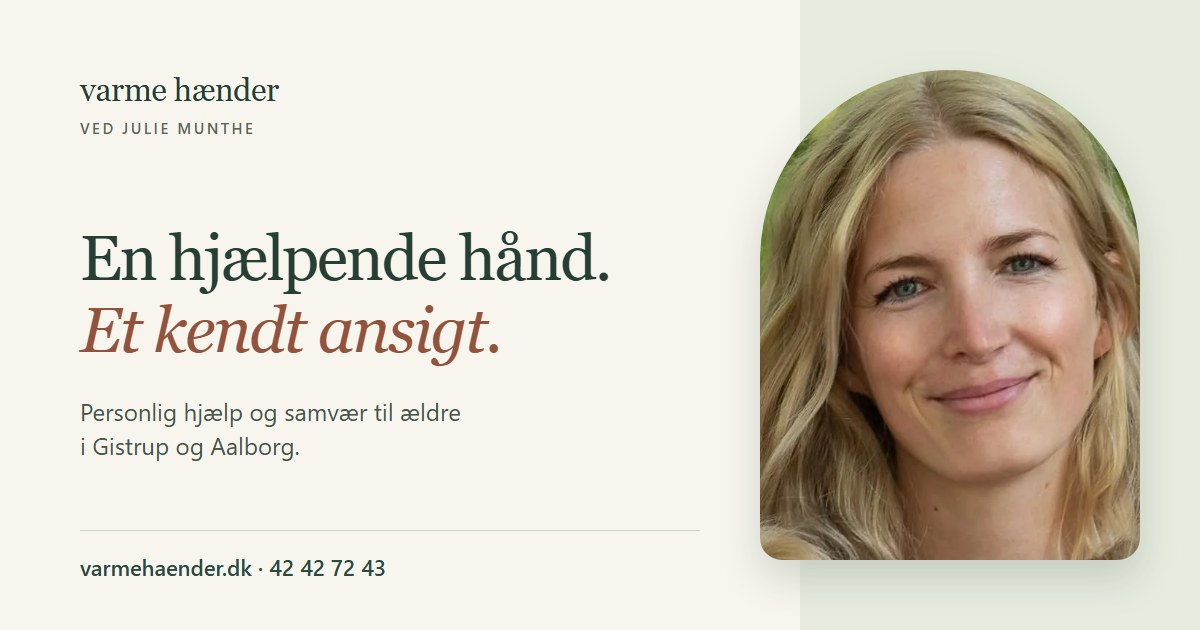
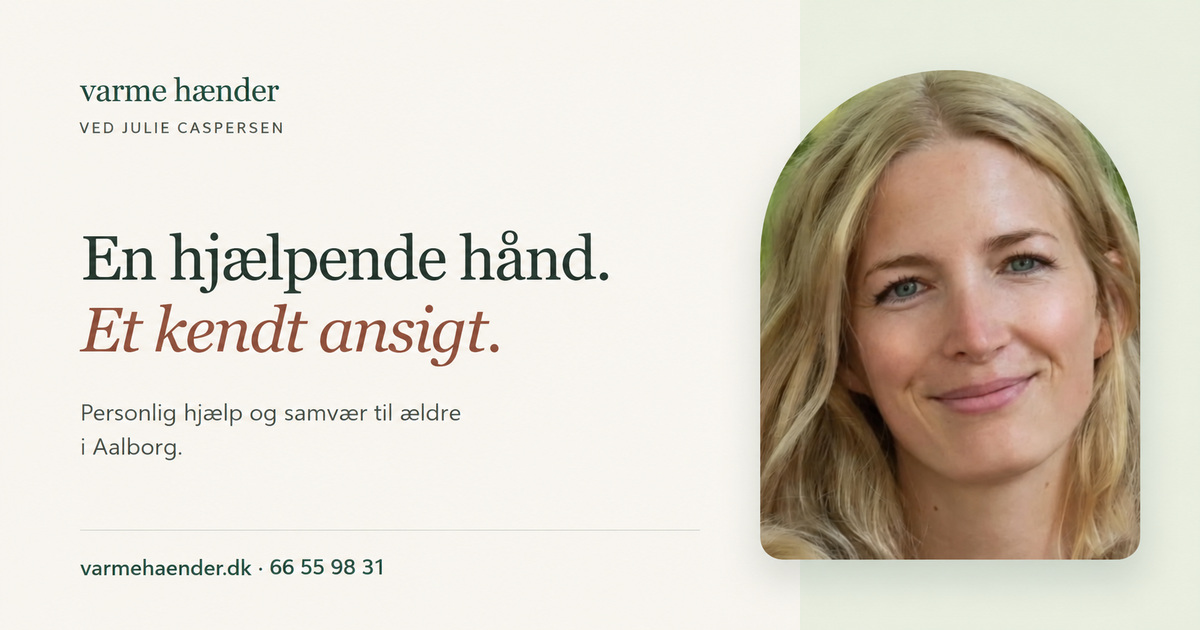
Update Julie Caspersen contact details and Aalborg location

diff --git a/index.html b/index.html
@@ -5,30 +5,30 @@
   <meta name="viewport" content="width=device-width, initial-scale=1">
   <meta name="theme-color" content="#f7f5ee">
   <meta name="color-scheme" content="light">
-  <title>Privat hjælp til ældre i Gistrup og Aalborg | Varme Hænder</title>
-  <meta name="description" content="Privat hjælp i hjemmet til ældre i Gistrup og Aalborg: praktisk hjælp, samvær, hjælp med teknik og ledsagelse. Altid Julie. 349 kr. pr. time inkl. moms og transport.">
+  <title>Privat hjælp til ældre i Aalborg | Varme Hænder</title>
+  <meta name="description" content="Privat hjælp i hjemmet til ældre i Aalborg: praktisk hjælp, samvær, hjælp med teknik og ledsagelse. Altid Julie. 349 kr. pr. time inkl. moms og transport.">
   <link rel="canonical" href="https://varmehaender.dk/">
   <meta property="og:type" content="website">
   <meta property="og:locale" content="da_DK">
   <meta property="og:site_name" content="Varme Hænder">
-  <meta property="og:title" content="Varme Hænder · Personlig hjælp til ældre i Gistrup og Aalborg">
+  <meta property="og:title" content="Varme Hænder · Personlig hjælp til ældre i Aalborg">
   <meta property="og:description" content="En hjælpende hånd. Et kendt ansigt. Julie hjælper med det praktiske, har tid til samvær og giver en hånd med teknikken. 349 kr. pr. time inkl. moms og transport.">
   <meta property="og:url" content="https://varmehaender.dk/">
-  <meta property="og:image" content="https://varmehaender.dk/assets/deling.jpg?v=20261106-domaene">
+  <meta property="og:image" content="https://varmehaender.dk/assets/deling.jpg?v=20261107-kontakt">
   <meta property="og:image:type" content="image/jpeg">
   <meta property="og:image:width" content="1200">
   <meta property="og:image:height" content="630">
-  <meta property="og:image:alt" content="Julie Munthe fra Varme Hænder. En hjælpende hånd. Et kendt ansigt. Personlig hjælp i Gistrup og Aalborg.">
+  <meta property="og:image:alt" content="Julie Caspersen fra Varme Hænder. En hjælpende hånd. Et kendt ansigt. Personlig hjælp i Aalborg.">
   <meta name="twitter:card" content="summary_large_image">
   <link rel="icon" href="assets/favicon.svg?v=20261106-domaene" type="image/svg+xml">
   <link rel="icon" href="assets/favicon-192.png?v=20261106-domaene" type="image/png" sizes="192x192">
   <link rel="apple-touch-icon" href="assets/apple-touch-icon.png?v=20261106-domaene">
-  <link rel="stylesheet" href="assets/style.css?v=20261106-domaene">
-  <link rel="preload" as="image" href="assets/julie-munthe.webp" fetchpriority="high">
+  <link rel="stylesheet" href="assets/style.css?v=20261107-kontakt">
+  <link rel="preload" as="image" href="assets/julie-caspersen.webp" fetchpriority="high">
   <script type="application/ld+json" id="business-schema">
-  {"@context": "https://schema.org", "@type": "ProfessionalService", "@id": "https://varmehaender.dk/#virksomhed", "name": "Varme Hænder", "url": "https://varmehaender.dk/", "description": "Privat, personlig hjælp i hjemmet til ældre med praktiske opgaver, samvær, teknisk hjælp og ledsagelse med udgangspunkt i Gistrup nær Aalborg.", "image": "https://varmehaender.dk/assets/julie-munthe.webp", "logo": "https://varmehaender.dk/assets/favicon-192.png", "email": "julie@varmehaender.dk", "telephone": "+4542427243", "vatID": "DK42401870", "priceRange": "349 kr. pr. time inkl. moms og transport", "currenciesAccepted": "DKK", "knowsLanguage": "da", "founder": {"@type": "Person", "name": "Julie Munthe"}, "areaServed": [{"@type": "City", "name": "Gistrup"}, {"@type": "City", "name": "Aalborg"}], "address": {"@type": "PostalAddress", "addressLocality": "Gistrup", "postalCode": "9260", "addressCountry": "DK"}, "makesOffer": {"@type": "Offer", "name": "Personlig hjælp i hjemmet", "description": "Praktisk hjælp, samvær, teknisk hjælp og ledsagelse. Minimum 2 timer pr. besøg.", "priceSpecification": {"@type": "UnitPriceSpecification", "price": 349, "priceCurrency": "DKK", "valueAddedTaxIncluded": true, "unitCode": "HUR", "unitText": "time"}}, "hasOfferCatalog": {"@type": "OfferCatalog", "name": "Hjælp i hverdagen", "itemListElement": [{"@type": "Offer", "itemOffered": {"@type": "Service", "name": "Praktisk hjælp", "description": "Rengøring, lettere oprydning, tøjvask, indkøb og hverdagens ærinder."}}, {"@type": "Offer", "itemOffered": {"@type": "Service", "name": "Samvær", "description": "Kaffe og en god snak, gåture, spil, højtlæsning og hyggestunder."}}, {"@type": "Offer", "itemOffered": {"@type": "Service", "name": "Teknisk hjælp", "description": "Hjælp med mobiltelefon, tablet, digitale beskeder og vejledning i MitID."}}, {"@type": "Offer", "itemOffered": {"@type": "Service", "name": "Ledsagelse", "description": "Følgeskab til aftaler, ture til butikkerne og små oplevelser."}}]}}
+  {"@context": "https://schema.org", "@type": "ProfessionalService", "@id": "https://varmehaender.dk/#virksomhed", "name": "Varme Hænder", "url": "https://varmehaender.dk/", "description": "Privat, personlig hjælp i hjemmet til ældre med praktiske opgaver, samvær, teknisk hjælp og ledsagelse med udgangspunkt i Aalborg.", "image": "https://varmehaender.dk/assets/julie-caspersen.webp", "logo": "https://varmehaender.dk/assets/favicon-192.png", "email": "julie@varmehaender.dk", "telephone": "+4566559831", "vatID": "DK42401870", "priceRange": "349 kr. pr. time inkl. moms og transport", "currenciesAccepted": "DKK", "knowsLanguage": "da", "founder": {"@type": "Person", "name": "Julie Caspersen"}, "areaServed": [{"@type": "City", "name": "Aalborg"}], "address": {"@type": "PostalAddress", "addressLocality": "Aalborg", "addressCountry": "DK"}, "makesOffer": {"@type": "Offer", "name": "Personlig hjælp i hjemmet", "description": "Praktisk hjælp, samvær, teknisk hjælp og ledsagelse. Minimum 2 timer pr. besøg.", "priceSpecification": {"@type": "UnitPriceSpecification", "price": 349, "priceCurrency": "DKK", "valueAddedTaxIncluded": true, "unitCode": "HUR", "unitText": "time"}}, "hasOfferCatalog": {"@type": "OfferCatalog", "name": "Hjælp i hverdagen", "itemListElement": [{"@type": "Offer", "itemOffered": {"@type": "Service", "name": "Praktisk hjælp", "description": "Rengøring, lettere oprydning, tøjvask, indkøb og hverdagens ærinder."}}, {"@type": "Offer", "itemOffered": {"@type": "Service", "name": "Samvær", "description": "Kaffe og en god snak, gåture, spil, højtlæsning og hyggestunder."}}, {"@type": "Offer", "itemOffered": {"@type": "Service", "name": "Teknisk hjælp", "description": "Hjælp med mobiltelefon, tablet, digitale beskeder og vejledning i MitID."}}, {"@type": "Offer", "itemOffered": {"@type": "Service", "name": "Ledsagelse", "description": "Følgeskab til aftaler, ture til butikkerne og små oplevelser."}}]}}
   </script>
-  <script src="assets/site-config.js?v=20261106-domaene" defer></script>
+  <script src="assets/site-config.js?v=20261107-kontakt" defer></script>
   <script src="assets/site.js?v=20261106-domaene" defer></script>
 </head>
 <body class="design-original">
@@ -52,19 +52,19 @@
     </defs>
   </svg>
 
-  <div class="top-note"><span>Personlig hjælp med udgangspunkt i Gistrup nær Aalborg</span><span class="top-note-end">Én person. Tid til dig.</span></div>
+  <div class="top-note"><span>Personlig hjælp med udgangspunkt i Aalborg</span><span class="top-note-end">Én person. Tid til dig.</span></div>
   <header class="site-header" id="top">
     <div class="container header-inner">
       <a class="brand" href="#top" aria-label="Varme Hænder – til forsiden">
         <svg class="brand-symbol" aria-hidden="true"><use href="#brand-mark"/></svg>
-        <span><span class="brand-name">varme hænder</span><span class="brand-tagline">ved Julie Munthe</span></span>
+        <span><span class="brand-name">varme hænder</span><span class="brand-tagline">ved Julie Caspersen</span></span>
       </a>
       <button class="menu-toggle" type="button" aria-expanded="false" aria-controls="hovedmenu" hidden><span>Menu</span><span class="menu-lines" aria-hidden="true"></span></button>
       <nav class="site-nav" id="hovedmenu" aria-label="Hovedmenu">
         <a href="#hjaelp">Det hjælper jeg med</a>
         <a href="#om-julie">Mød Julie</a>
         <a href="#pris">Pris & aftale</a>
-        <a class="button button-small" data-phone-link href="tel:+4542427243" aria-label="Ring til Julie på 42 42 72 43"><svg class="icon" aria-hidden="true"><use href="#icon-phone"/></svg><span data-phone-display>42 42 72 43</span></a>
+        <a class="button button-small" data-phone-link href="tel:+4566559831" aria-label="Ring til Julie på 66 55 98 31"><svg class="icon" aria-hidden="true"><use href="#icon-phone"/></svg><span data-phone-display>66 55 98 31</span></a>
       </nav>
     </div>
   </header>
@@ -78,17 +78,16 @@
           <p class="hero-intro">Jeg hedder Julie. Jeg hjælper dig med hverdagens gøremål og har tid til en snak, en gåtur og det, der betyder noget for dig.</p>
           <p class="hero-promise">Hos Varme Hænder er det altid mig, der kommer.</p>
           <div class="hero-actions">
-            <a class="button" data-primary-contact href="tel:+4542427243"><svg class="icon" aria-hidden="true"><use data-primary-icon href="#icon-phone"/></svg><span data-primary-label>Ring 42 42 72 43</span><svg class="icon button-arrow" aria-hidden="true"><use href="#icon-arrow"/></svg></a>
+            <a class="button" data-primary-contact href="tel:+4566559831"><svg class="icon" aria-hidden="true"><use data-primary-icon href="#icon-phone"/></svg><span data-primary-label>Ring 66 55 98 31</span><svg class="icon button-arrow" aria-hidden="true"><use href="#icon-arrow"/></svg></a>
             <a class="text-link" href="#hjaelp">Se, hvad jeg kan hjælpe med <span aria-hidden="true">↓</span></a>
           </div>
           <p class="hero-footnote">Du er også velkommen som pårørende.</p>
         </div>
         <div class="hero-portrait">
           <figure class="portrait-frame">
-            <div class="portrait-crop"><img src="assets/julie-munthe.webp" alt="Julie Munthe, som står bag Varme Hænder" width="719" height="719" fetchpriority="high"></div>
-            <figcaption class="portrait-caption"><span class="portrait-name">Julie Munthe</span><span>Det er mig, du møder.</span><svg class="caption-heart" aria-hidden="true"><use href="#icon-heart"/></svg></figcaption>
+            <div class="portrait-crop"><img src="assets/julie-caspersen.webp" alt="Julie Caspersen, som står bag Varme Hænder" width="719" height="719" fetchpriority="high"></div>
+            <figcaption class="portrait-caption"><span class="portrait-name">Julie Caspersen</span><span>Det er mig, du møder.</span><svg class="caption-heart" aria-hidden="true"><use href="#icon-heart"/></svg></figcaption>
           </figure>
-          <div class="portrait-note"><svg class="icon" aria-hidden="true"><use href="#icon-pin"/></svg><span>Hjemme i Gistrup.<br>Tæt på din hverdag.</span></div>
           <svg class="portrait-flourish" viewBox="0 0 100 130" fill="none" aria-hidden="true"><path d="M52 126C34 94 42 40 77 8M48 90C23 92 13 76 10 59c25-2 40 9 38 31ZM48 67c-5-22 7-36 25-43 9 22 0 38-25 43ZM44 108c16-21 35-20 49-12-10 20-27 26-49 12Z"/></svg>
         </div>
       </div>
@@ -98,7 +97,7 @@
       <div class="container trust-grid">
         <div><svg class="icon" aria-hidden="true"><use href="#icon-check"/></svg><span><strong>Altid den samme</strong>Du kender den, der kommer.</span></div>
         <div><svg class="icon" aria-hidden="true"><use href="#icon-check"/></svg><span><strong>Plads til dig</strong>Dine ønsker er udgangspunktet.</span></div>
-        <div><svg class="icon" aria-hidden="true"><use href="#icon-check"/></svg><span><strong>Hjælp tæt på</strong>Gistrup, Aalborg og omegn efter aftale.</span></div>
+        <div><svg class="icon" aria-hidden="true"><use href="#icon-check"/></svg><span><strong>Hjælp tæt på</strong>Aalborg og omegn efter aftale.</span></div>
       </div>
     </div>
 
@@ -144,11 +143,11 @@
           <p class="eyebrow">Mennesket bag Varme Hænder</p>
           <div class="about-statement"><span>Det er altid</span><strong>Julie.</strong><svg viewBox="0 0 310 26" fill="none" aria-hidden="true"><path d="M5 18C76 2 207 3 302 14M54 23c65-9 125-10 197-7"/></svg></div>
           <p>Én at kende.<br>Én at lave aftaler med.<br>Én, der kommer igen.</p>
-          <div class="about-location"><svg class="icon" aria-hidden="true"><use href="#icon-pin"/></svg>Julie Munthe · Gistrup</div>
+          <div class="about-location"><svg class="icon" aria-hidden="true"><use href="#icon-pin"/></svg>Julie Caspersen · Aalborg</div>
         </div>
         <div class="about-copy">
           <h2 id="about-heading">God hjælp begynder<br>med at kende hinanden.</h2>
-          <p>Jeg hedder Julie Munthe, bor i Gistrup og står bag Varme Hænder. Det er min virksomhed, og jeg er den eneste medarbejder. Derfor ved du altid, hvem du har kontakt med, og hvem du lukker ind.</p>
+          <p>Jeg hedder Julie Caspersen, bor i Aalborg og står bag Varme Hænder. Det er min virksomhed, og jeg er den eneste medarbejder. Derfor ved du altid, hvem du har kontakt med, og hvem du lukker ind.</p>
           <p>Jeg har en pædagogisk og administrativ baggrund. Den tager jeg med ind i arbejdet med både mennesker og hverdagens praktiske opgaver.</p>
           <p>For mig begynder hjælpen med at lytte. Hvad vil du gerne have en hånd med? Hvad kan du lide at lave? Og hvad gør en god dag for dig?</p>
           <a class="text-link" href="#saadan">Sådan kommer vi i gang <svg class="icon" aria-hidden="true"><use href="#icon-arrow"/></svg></a>
@@ -196,7 +195,7 @@
           <h3 id="price-card-heading">Det er med i aftalen</h3>
           <ul class="check-list"><li><svg class="icon" aria-hidden="true"><use href="#icon-check"/></svg><span>Minimum 2 timer pr. besøg.</span></li><li><svg class="icon" aria-hidden="true"><use href="#icon-check"/></svg><span>Derefter aftalte halve timer til 174,50 kr.</span></li><li><svg class="icon" aria-hidden="true"><use href="#icon-check"/></svg><span>Moms og transport er inkluderet i timeprisen.</span></li></ul>
           <p class="price-extra" data-price-extra>Varer ved indkøb og eventuelle entrébilletter betales særskilt efter aftale.</p>
-          <a class="button button-full" data-phone-link href="tel:+4542427243"><svg class="icon" aria-hidden="true"><use href="#icon-phone"/></svg>Tal med Julie om et besøg <svg class="icon button-arrow" aria-hidden="true"><use href="#icon-arrow"/></svg></a>
+          <a class="button button-full" data-phone-link href="tel:+4566559831"><svg class="icon" aria-hidden="true"><use href="#icon-phone"/></svg>Tal med Julie om et besøg <svg class="icon button-arrow" aria-hidden="true"><use href="#icon-arrow"/></svg></a>
         </div>
       </div>
     </section>
@@ -206,11 +205,11 @@
         <div class="faq-intro"><p class="eyebrow">Godt at vide</p><h2 id="faq-heading">Måske sidder du<br>med et spørgsmål.</h2><p>Du er altid velkommen til at spørge mig om det, der er vigtigt for dig.</p><a class="text-link" href="#kontakt">Kontakt Julie <svg class="icon" aria-hidden="true"><use href="#icon-arrow"/></svg></a></div>
         <div class="faq-list">
           <details><summary>Er det altid Julie, der kommer?<svg class="icon" aria-hidden="true"><use href="#icon-plus"/></svg></summary><div class="faq-answer"><p>Ja. Varme Hænder er min virksomhed, og jeg er den eneste medarbejder. Det er mig, Julie, du har kontakt med, og mig, du møder.</p></div></details>
-          <details><summary>Hvor kan jeg få hjælp?<svg class="icon" aria-hidden="true"><use href="#icon-plus"/></svg></summary><div class="faq-answer"><p>Jeg har base i Gistrup nær Aalborg og hjælper i Gistrup og Aalborg-området. Transport er inkluderet i timeprisen. Bor du et andet sted i området, er du velkommen til at kontakte mig om mulighederne.</p></div></details>
+          <details><summary>Hvor kan jeg få hjælp?<svg class="icon" aria-hidden="true"><use href="#icon-plus"/></svg></summary><div class="faq-answer"><p>Jeg har base i Aalborg og hjælper i Aalborg-området. Transport er inkluderet i timeprisen. Bor du et andet sted i området, er du velkommen til at kontakte mig om mulighederne.</p></div></details>
           <details><summary>Kan jeg kontakte dig for en pårørende?<svg class="icon" aria-hidden="true"><use href="#icon-plus"/></svg></summary><div class="faq-answer"><p>Ja, du er velkommen til at tage den første kontakt. Vi taler om jeres ønsker og om, hvordan din pårørende bedst bliver inddraget.</p></div></details>
           <details><summary>Kan jeg få hjælp til flere forskellige ting?<svg class="icon" aria-hidden="true"><use href="#icon-plus"/></svg></summary><div class="faq-answer"><p>Du må gerne fortælle om flere behov, for eksempel indkøb og en gåtur eller tøjvask og hjælp med mobilen. Så taler vi om, hvad der kan lade sig gøre.</p></div></details>
           <details><summary>Hvordan foregår hjælp med MitID?<svg class="icon" aria-hidden="true"><use href="#icon-plus"/></svg></summary><div class="faq-answer"><p>Jeg kan guide dig og hjælpe med at finde rundt. Du bruger selv dit MitID og godkender selv. Dine personlige koder bliver hos dig, og jeg ser væk, når du taster dem.</p><p><a href="https://www.mitid.dk/hjaelp/hjaelpeunivers/hjaelp-andre/">Læs MitIDs vejledning om at hjælpe andre <span aria-hidden="true">↗</span></a></p></div></details>
-          <details><summary>Hvad koster det, og hvordan kommer jeg i gang?<svg class="icon" aria-hidden="true"><use href="#icon-plus"/></svg></summary><div class="faq-answer"><p>349 kr. pr. time inkl. moms og transport. Minimum 2 timer pr. besøg, så et besøg på 2 timer koster 698 kr. Derefter kan vi aftale halve timer til 174,50 kr. Varer ved indkøb og eventuelle entrébilletter betales særskilt efter aftale.</p><p>Ring til mig på <a data-phone-link href="tel:+4542427243"><span data-phone-display>42 42 72 43</span></a>, eller skriv til <a href="mailto:julie@varmehaender.dk">julie@varmehaender.dk</a>. Så taler vi om det, du har brug for.</p><p><a href="#pris">Se pris og vilkår for et besøg</a></p></div></details>
+          <details><summary>Hvad koster det, og hvordan kommer jeg i gang?<svg class="icon" aria-hidden="true"><use href="#icon-plus"/></svg></summary><div class="faq-answer"><p>349 kr. pr. time inkl. moms og transport. Minimum 2 timer pr. besøg, så et besøg på 2 timer koster 698 kr. Derefter kan vi aftale halve timer til 174,50 kr. Varer ved indkøb og eventuelle entrébilletter betales særskilt efter aftale.</p><p>Ring til mig på <a data-phone-link href="tel:+4566559831"><span data-phone-display>66 55 98 31</span></a>, eller skriv til <a href="mailto:julie@varmehaender.dk">julie@varmehaender.dk</a>. Så taler vi om det, du har brug for.</p><p><a href="#pris">Se pris og vilkår for et besøg</a></p></div></details>
         </div>
       </div>
     </section>
@@ -219,8 +218,8 @@
       <div class="container contact-grid">
         <div class="contact-copy"><p class="eyebrow">Du har direkte kontakt med mig</p><h2 id="contact-heading">Lad os begynde<br>med en snak.</h2><p>Ring og fortæl om det, du har brug for – for dig selv eller en pårørende. Du er også velkommen til at skrive. Et par linjer er nok.</p><p class="contact-signature">Jeg glæder mig til at høre fra dig.<br><span>Julie</span></p></div>
         <div class="contact-card">
-          <div class="contact-person"><div class="mini-portrait"><img src="assets/julie-munthe-160.webp" alt="" width="160" height="160" loading="lazy" decoding="async"></div><div><h3>Julie Munthe</h3><p>Varme Hænder · Gistrup</p></div></div>
-          <div class="contact-phone" data-phone-block><span class="contact-label">Ring direkte til mig</span><a data-phone-link href="tel:+4542427243"><svg class="icon" aria-hidden="true"><use href="#icon-phone"/></svg><span data-phone-display>42 42 72 43</span></a></div>
+          <div class="contact-person"><div class="mini-portrait"><img src="assets/julie-caspersen-160.webp" alt="" width="160" height="160" loading="lazy" decoding="async"></div><div><h3>Julie Caspersen</h3><p>Varme Hænder · Aalborg</p></div></div>
+          <div class="contact-phone" data-phone-block><span class="contact-label">Ring direkte til mig</span><a data-phone-link href="tel:+4566559831"><svg class="icon" aria-hidden="true"><use href="#icon-phone"/></svg><span data-phone-display>66 55 98 31</span></a></div>
           <span class="contact-label">Du kan også skrive</span>
           <a class="contact-email" href="mailto:julie@varmehaender.dk">julie@varmehaender.dk</a>
           <div class="contact-card-actions"><a class="button button-full" href="mailto:julie@varmehaender.dk?subject=Hj%C3%A6lp%20i%20hverdagen"><svg class="icon" aria-hidden="true"><use href="#icon-mail"/></svg>Skriv til Julie <svg class="icon button-arrow" aria-hidden="true"><use href="#icon-arrow"/></svg></a><button class="copy-button" type="button" data-copy-email hidden><svg class="icon" aria-hidden="true"><use href="#icon-copy"/></svg>Kopiér mailadresse</button></div>
@@ -232,13 +231,13 @@
       </div>
     </section>
 
-    <aside class="local-note"><div class="container"><svg class="icon" aria-hidden="true"><use href="#icon-pin"/></svg><p><strong>Med base i Gistrup.</strong> Personlig hjælp i Aalborg-området – og en aftale, der tager udgangspunkt i dig.</p></div></aside>
+    <aside class="local-note"><div class="container"><svg class="icon" aria-hidden="true"><use href="#icon-pin"/></svg><p><strong>Med base i Aalborg.</strong> Personlig hjælp i Aalborg-området – og en aftale, der tager udgangspunkt i dig.</p></div></aside>
   </main>
 
   <footer class="site-footer">
-    <div class="container footer-main"><a class="brand" href="#top" aria-label="Varme Hænder – tilbage til toppen"><svg class="brand-symbol" aria-hidden="true"><use href="#brand-mark"/></svg><span><span class="brand-name">varme hænder</span><span class="brand-tagline">ved Julie Munthe</span></span></a><p>Praktisk hjælp. Tid til samvær.<br>Altid et kendt ansigt.</p><div class="footer-contact"><a data-phone-link href="tel:+4542427243">Ring <span data-phone-display>42 42 72 43</span></a><a href="mailto:julie@varmehaender.dk">julie@varmehaender.dk</a><span>Gistrup nær Aalborg</span><span data-cvr hidden></span></div></div>
-    <div class="container footer-bottom"><span>© <span data-year>2026</span> Varme Hænder · Julie Munthe</span><div><a href="privatliv/">Privatliv</a><a href="#top">Til toppen <span aria-hidden="true">↑</span></a></div></div>
+    <div class="container footer-main"><a class="brand" href="#top" aria-label="Varme Hænder – tilbage til toppen"><svg class="brand-symbol" aria-hidden="true"><use href="#brand-mark"/></svg><span><span class="brand-name">varme hænder</span><span class="brand-tagline">ved Julie Caspersen</span></span></a><p>Praktisk hjælp. Tid til samvær.<br>Altid et kendt ansigt.</p><div class="footer-contact"><a data-phone-link href="tel:+4566559831">Ring <span data-phone-display>66 55 98 31</span></a><a href="mailto:julie@varmehaender.dk">julie@varmehaender.dk</a><span>Aalborg</span><span data-cvr hidden></span></div></div>
+    <div class="container footer-bottom"><span>© <span data-year>2026</span> Varme Hænder · Julie Caspersen</span><div><a href="privatliv/">Privatliv</a><a href="#top">Til toppen <span aria-hidden="true">↑</span></a></div></div>
   </footer>
-  <div class="mobile-contact"><a class="button" data-primary-contact href="tel:+4542427243"><svg class="icon" aria-hidden="true"><use data-primary-icon href="#icon-phone"/></svg><span data-primary-label>Ring 42 42 72 43</span><svg class="icon button-arrow" aria-hidden="true"><use href="#icon-arrow"/></svg></a></div>
+  <div class="mobile-contact"><a class="button" data-primary-contact href="tel:+4566559831"><svg class="icon" aria-hidden="true"><use data-primary-icon href="#icon-phone"/></svg><span data-primary-label>Ring 66 55 98 31</span><svg class="icon button-arrow" aria-hidden="true"><use href="#icon-arrow"/></svg></a></div>
 </body>
 </html>

diff --git a/privatliv/index.html b/privatliv/index.html
@@ -4,35 +4,35 @@
   <meta charset="utf-8">
   <meta name="viewport" content="width=device-width, initial-scale=1">
   <meta name="theme-color" content="#f7f5ee">
-  <title>Privatliv | Varme Hænder · Julie Munthe</title>
-  <meta name="description" content="Læs om hjemmesiden, cookies og kontakt til Varme Hænder ved Julie Munthe.">
+  <title>Privatliv | Varme Hænder · Julie Caspersen</title>
+  <meta name="description" content="Læs om hjemmesiden, cookies og kontakt til Varme Hænder ved Julie Caspersen.">
   <link rel="canonical" href="https://varmehaender.dk/privatliv/">
   <meta property="og:type" content="website">
   <meta property="og:locale" content="da_DK">
   <meta property="og:site_name" content="Varme Hænder">
-  <meta property="og:title" content="Privatliv | Varme Hænder · Julie Munthe">
-  <meta property="og:description" content="Læs om hjemmesiden, cookies og kontakt til Varme Hænder ved Julie Munthe.">
+  <meta property="og:title" content="Privatliv | Varme Hænder · Julie Caspersen">
+  <meta property="og:description" content="Læs om hjemmesiden, cookies og kontakt til Varme Hænder ved Julie Caspersen.">
   <meta property="og:url" content="https://varmehaender.dk/privatliv/">
-  <meta property="og:image" content="https://varmehaender.dk/assets/deling.jpg?v=20261106-domaene">
+  <meta property="og:image" content="https://varmehaender.dk/assets/deling.jpg?v=20261107-kontakt">
   <meta property="og:image:width" content="1200">
   <meta property="og:image:height" content="630">
   <meta name="twitter:card" content="summary_large_image">
   <link rel="icon" href="../assets/favicon.svg?v=20261106-domaene" type="image/svg+xml">
   <link rel="icon" href="../assets/favicon-192.png?v=20261106-domaene" type="image/png" sizes="192x192">
   <link rel="apple-touch-icon" href="../assets/apple-touch-icon.png?v=20261106-domaene">
-  <link rel="stylesheet" href="../assets/style.css?v=20261106-domaene">
-  <script src="../assets/site-config.js?v=20261106-domaene" defer></script>
+  <link rel="stylesheet" href="../assets/style.css?v=20261107-kontakt">
+  <script src="../assets/site-config.js?v=20261107-kontakt" defer></script>
   <script src="../assets/site.js?v=20261106-domaene" defer></script>
 </head>
 <body class="document-page">
   <a class="skip-link" href="#indhold">Gå til indhold</a>
-  <header class="site-header"><div class="container header-inner"><a class="brand" href="/"><span><span class="brand-name">varme hænder</span><span class="brand-tagline">ved Julie Munthe</span></span></a><a class="text-link" href="/#kontakt">Kontakt Julie</a></div></header>
+  <header class="site-header"><div class="container header-inner"><a class="brand" href="/"><span><span class="brand-name">varme hænder</span><span class="brand-tagline">ved Julie Caspersen</span></span></a><a class="text-link" href="/#kontakt">Kontakt Julie</a></div></header>
   <main class="container document-main" id="indhold">
-    <p class="eyebrow">Varme Hænder · Julie Munthe</p>
+    <p class="eyebrow">Varme Hænder · Julie Caspersen</p>
     <h1>Om dit privatliv.</h1>
     <p>Her kan du læse om, hvordan hjemmesiden fungerer, og hvordan du kan kontakte mig om dine oplysninger.</p>
     <h2>Hvem står bag?</h2>
-    <p>Hjemmesiden tilhører Varme Hænder ved Julie Munthe i Gistrup nær Aalborg. Kontakt mig på <a data-phone-link href="tel:+4542427243"><span data-phone-display>42 42 72 43</span></a> eller <a href="mailto:julie@varmehaender.dk">julie@varmehaender.dk</a>, hvis du har spørgsmål om hjemmesiden eller en henvendelse, du har sendt til mig.</p>
+    <p>Hjemmesiden tilhører Varme Hænder ved Julie Caspersen i Aalborg. Kontakt mig på <a data-phone-link href="tel:+4566559831"><span data-phone-display>66 55 98 31</span></a> eller <a href="mailto:julie@varmehaender.dk">julie@varmehaender.dk</a>, hvis du har spørgsmål om hjemmesiden eller en henvendelse, du har sendt til mig.</p>
     <p data-cvr hidden></p>
     <h2>Når du besøger hjemmesiden</h2>
     <p>Selve hjemmesiden sætter ingen cookies og bruger ikke analyseværktøjer, reklamepixels eller sporing til markedsføring. Der er ingen indlejrede kort, videoer eller sociale medier. Skrifttyperne hentes fra din egen enhed, og billederne leveres sammen med hjemmesiden.</p>
@@ -45,8 +45,8 @@
     <p>Du er velkommen til at kontakte mig, hvis du vil vide, hvilke oplysninger jeg har modtaget om dig, eller hvis noget skal rettes. Afhængigt af omstændighederne kan du også have ret til at få oplysninger slettet, begrænse behandlingen eller gøre indsigelse.</p>
     <p>Du kan læse mere om dine rettigheder og muligheden for at klage hos <a href="https://www.datatilsynet.dk/borger/hvad-er-dine-rettigheder">Datatilsynet</a>.</p>
     <a class="text-link document-back" href="/">← Tilbage til Varme Hænder</a>
-    <p class="document-small">Senest opdateret 6. november 2026.</p>
+    <p class="document-small">Senest opdateret 7. november 2026.</p>
   </main>
-  <footer class="site-footer"><div class="container footer-bottom"><span>© <span data-year>2026</span> Varme Hænder · Julie Munthe</span><a href="mailto:julie@varmehaender.dk">julie@varmehaender.dk</a></div></footer>
+  <footer class="site-footer"><div class="container footer-bottom"><span>© <span data-year>2026</span> Varme Hænder · Julie Caspersen</span><a href="mailto:julie@varmehaender.dk">julie@varmehaender.dk</a></div></footer>
 </body>
 </html>

diff --git a/assets/style.css b/assets/style.css
@@ -94,8 +94,6 @@ ul, ol { margin: 0; }
 .portrait-caption { position: relative; display: flex; flex-direction: column; justify-content: center; gap: 3px; min-height: 100px; padding: 21px 29px 22px; background: var(--sage); margin-top: -47px; font-size: 15px; }
 .portrait-name { font: 400 26px/1.3 var(--display); letter-spacing: -.025em; }
 .caption-heart { position: absolute; right: 30px; top: 34px; width: 31px; height: 31px; fill: none; stroke: var(--clay); stroke-width: 1.3; }
-.portrait-note { position: absolute; top: 60px; left: -40px; display: flex; align-items: flex-start; gap: 9px; padding: 15px 19px; border: 1px solid #d7dccf; border-radius: 8px; background: var(--white); box-shadow: 0 6px 20px #1737280c; transform: rotate(-4deg); font-size: 13px; line-height: 1.5; }
-.portrait-note .icon { width: 18px; height: 22px; flex-basis: 18px; color: var(--clay); }
 .portrait-flourish { width: 80px; height: 104px; position: absolute; right: -30px; bottom: 78px; stroke: #5b7652; stroke-width: 1.5; }
 .trust-strip { border-block: 1px solid var(--line); background: #f0f1e8; }
 .trust-grid { display: grid; grid-template-columns: 1fr 1fr 1.2fr; padding-block: 27px; }
@@ -273,7 +271,6 @@ ul, ol { margin: 0; }
   .hero-intro { font-size: 19px; }
   .hero-actions { gap: 21px; }
   .hero-actions .text-link { font-size: 14px; }
-  .portrait-note { left: -14px; top: 38px; padding: 13px; font-size: 11px; }
   .service-grid { grid-template-columns: repeat(2, minmax(0, 1fr)); gap: 20px; }
   .service-card { padding: 29px; }
   .service-card h3 { font-size: 23px; }
@@ -387,7 +384,6 @@ ul, ol { margin: 0; }
   .portrait-crop { aspect-ratio: 1.15; }
   .portrait-caption { margin-top: -19px; min-height: 91px; padding: 19px 24px; font-size: 13px; }
   .portrait-name { font-size: 25px; }
-  .portrait-note { top: 39px; left: -17px; font-size: 11px; }
   .portrait-flourish { right: -20px; bottom: 61px; width: 61px; height: 96px; }
   .trust-grid { grid-template-columns: 1fr; gap: 0; padding-block: 9px; }
   .trust-grid > div { padding: 17px 0; gap: 15px; border-right: 0; border-bottom: 1px solid var(--line); }
@@ -507,7 +503,7 @@ ul, ol { margin: 0; }
 .top-note { font-size: 14px; }
 .brand-tagline { font-size: 12px; }
 .eyebrow, .hero .eyebrow, .about-visual .eyebrow, .document-main .eyebrow { font-size: 13px; }
-.service-top > span, .price-card-top, .portrait-note { font-size: 14px; }
+.service-top > span, .price-card-top { font-size: 14px; }
 .hero-footnote, .portrait-caption, .trust-grid span, .about-location, .coffee-photo figcaption,
 .contact-person p, .contact-label, .callback p, .contact-privacy, .copy-status, .local-note p,
 .footer-main > p, .footer-contact, .footer-contact > span, .footer-bottom, .document-main .document-small { font-size: 16px; }
@@ -538,7 +534,7 @@ ul, ol { margin: 0; }
 @media print {
   body { padding-bottom: 0; font-size: 12pt; background: white; color: black; }
   .site-header { position: static; }
-  .site-nav, .top-note, .menu-toggle, .mobile-contact, .copy-button, .hero-actions, .portrait-note, .portrait-flourish, .footer-bottom { display: none !important; }
+  .site-nav, .top-note, .menu-toggle, .mobile-contact, .copy-button, .hero-actions, .portrait-flourish, .footer-bottom { display: none !important; }
   .container { width: 100%; }
   .section { padding-block: 22px; }
   h1 { font-size: 32pt; } h2 { font-size: 24pt; }

diff --git a/404.html b/404.html
@@ -12,5 +12,5 @@
     *{box-sizing:border-box}body{margin:0;background:#f7f5ee;color:#263e34;font:19px/1.7 system-ui,-apple-system,sans-serif;min-height:100vh;display:grid;place-items:center;padding:30px}main{max-width:650px}small{font-size:13px;text-transform:uppercase;letter-spacing:.12em;color:#92523b}h1{font:400 clamp(38px,7vw,62px)/1.15 Georgia,serif;letter-spacing:-.04em;margin:22px 0}p{margin:0 0 30px}a{color:inherit;text-underline-offset:5px}a:focus-visible{outline:3px solid #92523b;outline-offset:6px}.button{display:inline-block;background:#294b3f;color:#fffefb;text-decoration:none;padding:15px 24px;border-radius:7px;font-size:17px}.mail{display:block;margin-top:25px;overflow-wrap:anywhere}.brand{font:28px Georgia,serif;margin-bottom:65px}
   </style>
 </head>
-<body><main><div class="brand">varme hænder</div><small>Siden blev ikke fundet</small><h1>Lad os finde<br>tilbage igen.</h1><p>Linket findes ikke længere, eller adressen er blevet skrevet forkert. Du kan finde hjælpen og kontakten til Julie på forsiden.</p><a class="button" href="/">Gå til forsiden →</a><a class="mail" href="tel:+4542427243">Ring til Julie på 42 42 72 43</a><a class="mail" href="mailto:julie@varmehaender.dk">julie@varmehaender.dk</a></main></body>
+<body><main><div class="brand">varme hænder</div><small>Siden blev ikke fundet</small><h1>Lad os finde<br>tilbage igen.</h1><p>Linket findes ikke længere, eller adressen er blevet skrevet forkert. Du kan finde hjælpen og kontakten til Julie på forsiden.</p><a class="button" href="/">Gå til forsiden →</a><a class="mail" href="tel:+4566559831">Ring til Julie på 66 55 98 31</a><a class="mail" href="mailto:julie@varmehaender.dk">julie@varmehaender.dk</a></main></body>
 </html>

diff --git a/assets/site-config.js b/assets/site-config.js
@@ -3,8 +3,8 @@
  * Final price: 349 DKK/hour incl. VAT and transport; minimum 2 hours.
  */
 window.VARME_HAENDER_CONFIG = Object.freeze({
-  phone: "42427243",
-  phoneDisplay: "42 42 72 43",
+  phone: "66559831",
+  phoneDisplay: "66 55 98 31",
   cvr: "42401870",
   hourlyRateDkk: 349,
   priceTaxText: "inkl. moms og transport",
